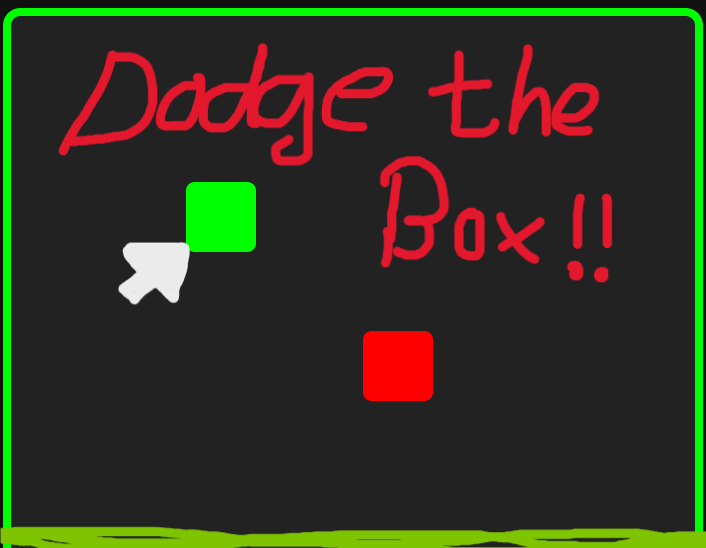
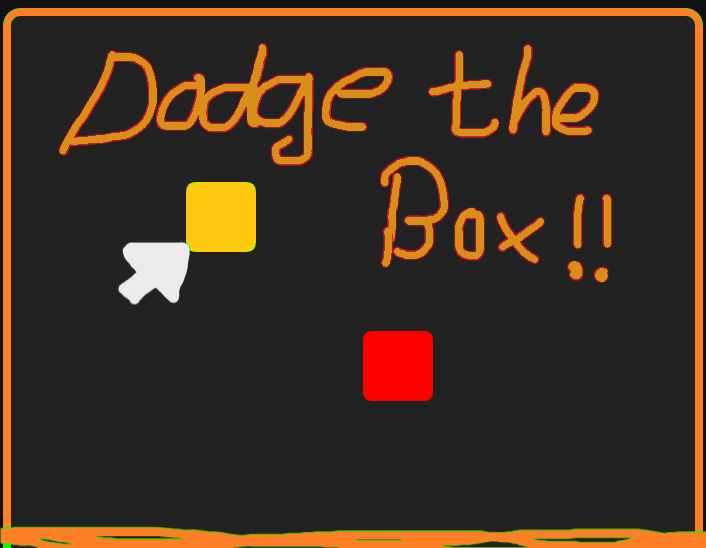
Initial Upload 3.0
epic style changes

diff --git a/style/mainstyle.css b/style/mainstyle.css
@@ -6,10 +6,16 @@
   scroll-behavior: smooth;
 }
 html {
-
+  color-scheme: only light;
+  background-color: white;
   font-family: 'Poppins', sans-serif;
 }
+img, video {
+  filter: none !important;
+}
 body {
+  background-color: #fff !important;
+  color: #000 !important;
   line-height: 1.6;
   color: #333;
 }
@@ -42,7 +48,7 @@ header h1 {
   display: flex;
   flex-wrap: wrap;
   justify-content: center;
-  background-color: #ffe082;
+  background-color: #fddd7d;
   padding: 10px;
   position: sticky;
   top: 0;
@@ -60,9 +66,9 @@ header h1 {
 }
 .section {
   background: linear-gradient(to bottom right, #fff8e1, #ffe082);
-  margin: 40px auto;
-  padding: 20px 25px;  
-  max-width: 1000px;
+  margin: 1px auto;
+  padding: 80px 25px;  
+  max-width: auto;
   border-radius: 25px;
   box-shadow: 0 10px 30px rgba(0, 0, 0, 0.1);
   font-family: 'Poppins', sans-serif;
@@ -129,11 +135,11 @@ header h1 {
 
 .hero {
   background: linear-gradient(to bottom right, #fff8e1, #ffe082);
-  padding: 60px 20px;
+  padding: 80px 20px;
   text-align: center;
   border-radius: 20px;
-  margin: 30px auto;
-  max-width: 1000px;
+  margin: 1px auto;
+  max-width: auto;
   box-shadow: 0 10px 30px rgba(0,0,0,0.15);
 }
 
@@ -142,7 +148,9 @@ header h1 {
   color: #222;
   margin-bottom: 10px;
 }
-
+.hero h3 {
+  text-align: center;
+}
 .hero .subtitle {
   font-size: 1.2rem;
   color: #444;
@@ -150,9 +158,9 @@ header h1 {
 }
 
 .highlight {
-  font-size: 1.5rem;
+  font-size: 2.4rem;
   margin: 20px 0;
-  color: #ff5722;
+  color: #9d7b00;
   font-weight: bold;
 }
 

diff --git a/index.html b/index.html
@@ -7,19 +7,6 @@
   
   <!-- 👇 Force light mode fix -->
   <meta name="color-scheme" content="light" />
-  <style>
-    html {
-      color-scheme: only light;
-      background-color: white;
-    }
-    body {
-      background-color: #fff !important;
-      color: #000 !important;
-    }
-    img, video {
-      filter: none !important;
-    }
-  </style>
 
   <link rel="stylesheet" href="style/mainstyle.css" />
   <link href="https://fonts.googleapis.com/css2?family=Poppins:wght@400;700&display=swap" rel="stylesheet" />
@@ -54,12 +41,11 @@
     <main>
         <section class="hero" id="home" class="sec scroll-animate">
           <div class="hero-text">
-            <h2>Welcome to BlockSizedX</h2>
-            <p class="subtitle">🚀 Explore my world of experiments, games & code magic.</p>
-            
-            <h3 class="highlight">🎮 New Release: Dodge the Box</h3>
-            <img src="images/dodge-box.png" alt="Dodge the Box" class="game-img">
-
+            <h3 class="highlight">🔵New Release: Dodge the Box</h3>
+            <a href="games/dodge-box.html"><img src="images/dodge-box.png" alt="Dodge the Box" class="game-img"></a>
+            <br>
+            <hr style="border: 2px solid black; width: 100%;">
+            <br>
             <ul class="nav-links">
               <li><a href="#minecraft">🎥 Minecraft Gameplays</a></li>
               <li><a href="#projects">🛠 See My Projects</a></li>

diff --git a/games/click-the-box.html b/games/click-the-box.html
@@ -15,7 +15,7 @@
       margin: 0;
       font-family: 'Segoe UI', sans-serif;
       background: #111;
-      color: #0f0;
+      color: rgb(255, 166, 0);
       display: flex;
       flex-direction: column;
       align-items: center;
@@ -30,7 +30,7 @@
       position: relative;
       width: 400px;
       height: 400px;
-      border: 6px solid #0f0;
+      border: 6px solid rgb(255, 196, 0);
       margin-top: 20px;
       background: #222;
       border-radius: 12px;
@@ -39,10 +39,10 @@
     #creeper {
       width: 50px;
       height: 50px;
-      background: green;
+      background: rgb(255, 239, 133);
       position: absolute;
       border-radius: 8px;
-      box-shadow: 0 0 10px lime;
+      box-shadow: 0 0 10px rgb(255, 200, 0);
       cursor: pointer;
       transition: top 0.2s, left 0.2s;
     }
@@ -62,7 +62,7 @@
       padding: 12px 24px;
       font-size: 1em;
       font-weight: bold;
-      background-color: #0f0;
+      background-color: rgb(255, 217, 0);
       color: #111;
       border: none;
       border-radius: 8px;
@@ -71,7 +71,7 @@
     }
 
     button:hover {
-      background-color: #0c0;
+      background-color: rgb(255, 204, 52);
     }
 
     @media (max-width: 500px) {

diff --git a/games/dodge-box.html b/games/dodge-box.html
@@ -8,7 +8,7 @@
     body {
       background: #111;
       font-family: 'Segoe UI', sans-serif;
-      color: #0f0;
+      color: rgb(255, 198, 105);
       display: flex;
       flex-direction: column;
       align-items: center;
@@ -26,7 +26,7 @@
       max-width: 400px;
       height: 400px;
       background: #222;
-      border: 5px solid #0f0;
+      border: 5px solid rgb(255, 234, 113);
       position: relative;
       border-radius: 10px;
       touch-action: manipulation;
@@ -39,7 +39,7 @@
       transition: top 0.1s, left 0.1s;
     }
 
-    .player { background: lime; border-radius: 5px; }
+    .player { background: rgb(255, 234, 98); border-radius: 5px; }
     .enemy { background: red; border-radius: 5px; }
 
     #score {
@@ -55,7 +55,7 @@
 
     button {
       padding: 10px 20px;
-      background-color: #0f0;
+      background-color: rgb(255, 187, 0);
       border: none;
       border-radius: 8px;
       color: #111;
@@ -64,7 +64,7 @@
     }
 
     button:hover {
-      background-color: #0c0;
+      background-color: rgb(255, 221, 2);
     }
   </style>
 </head>
